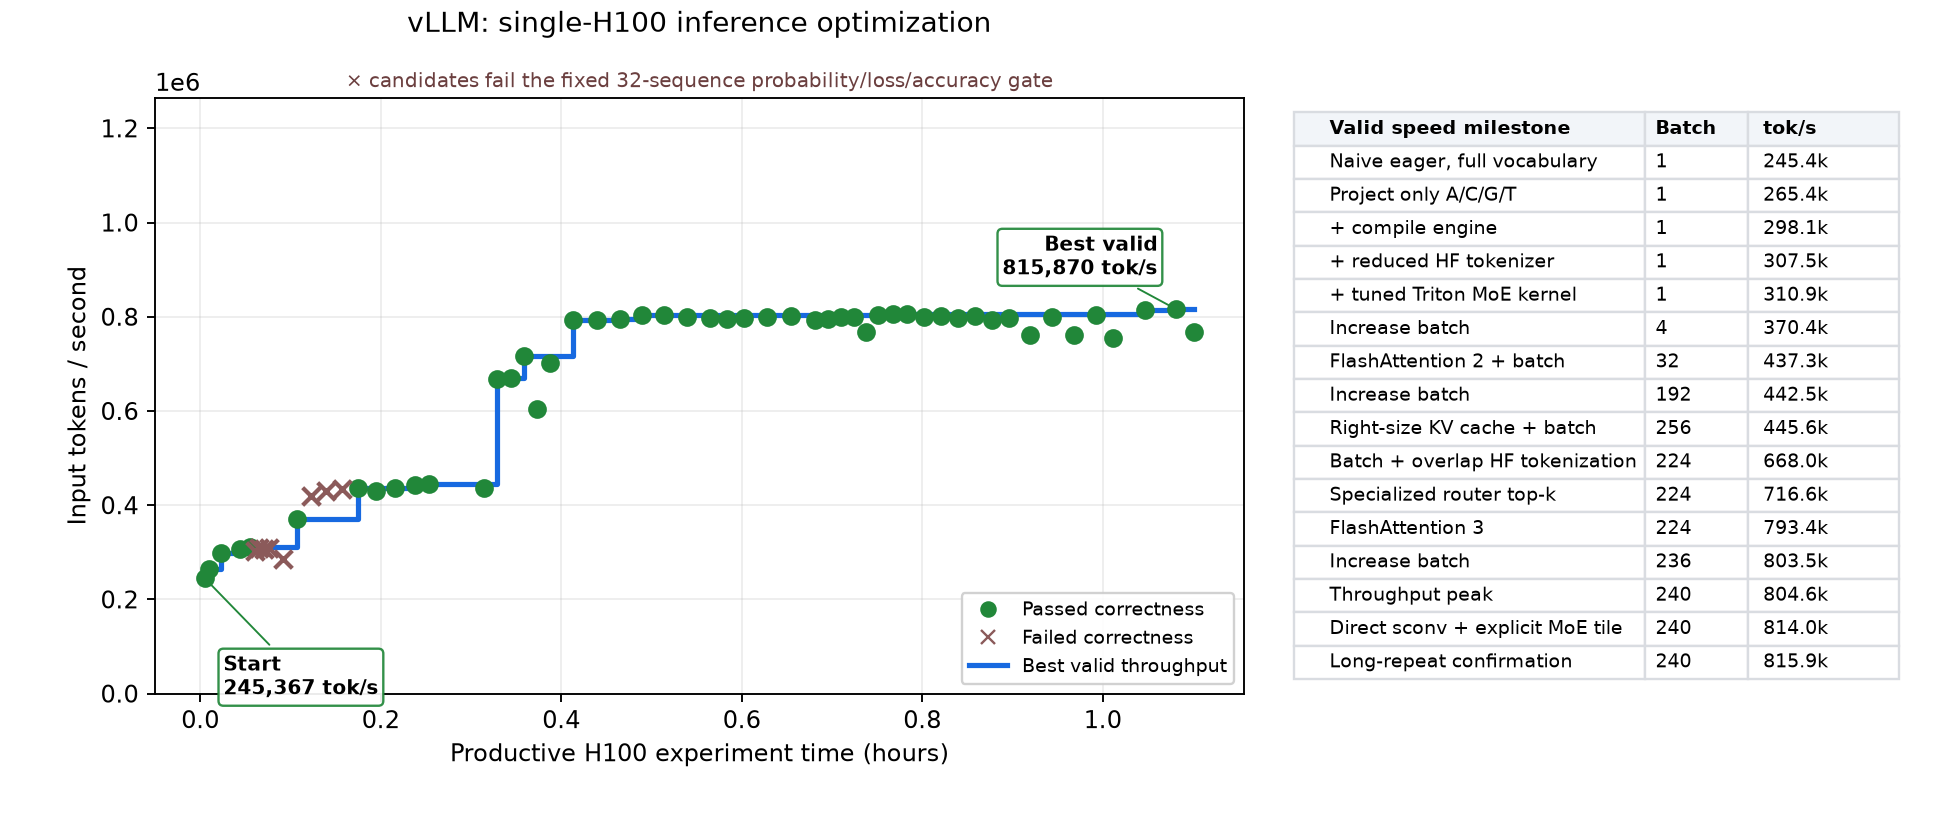
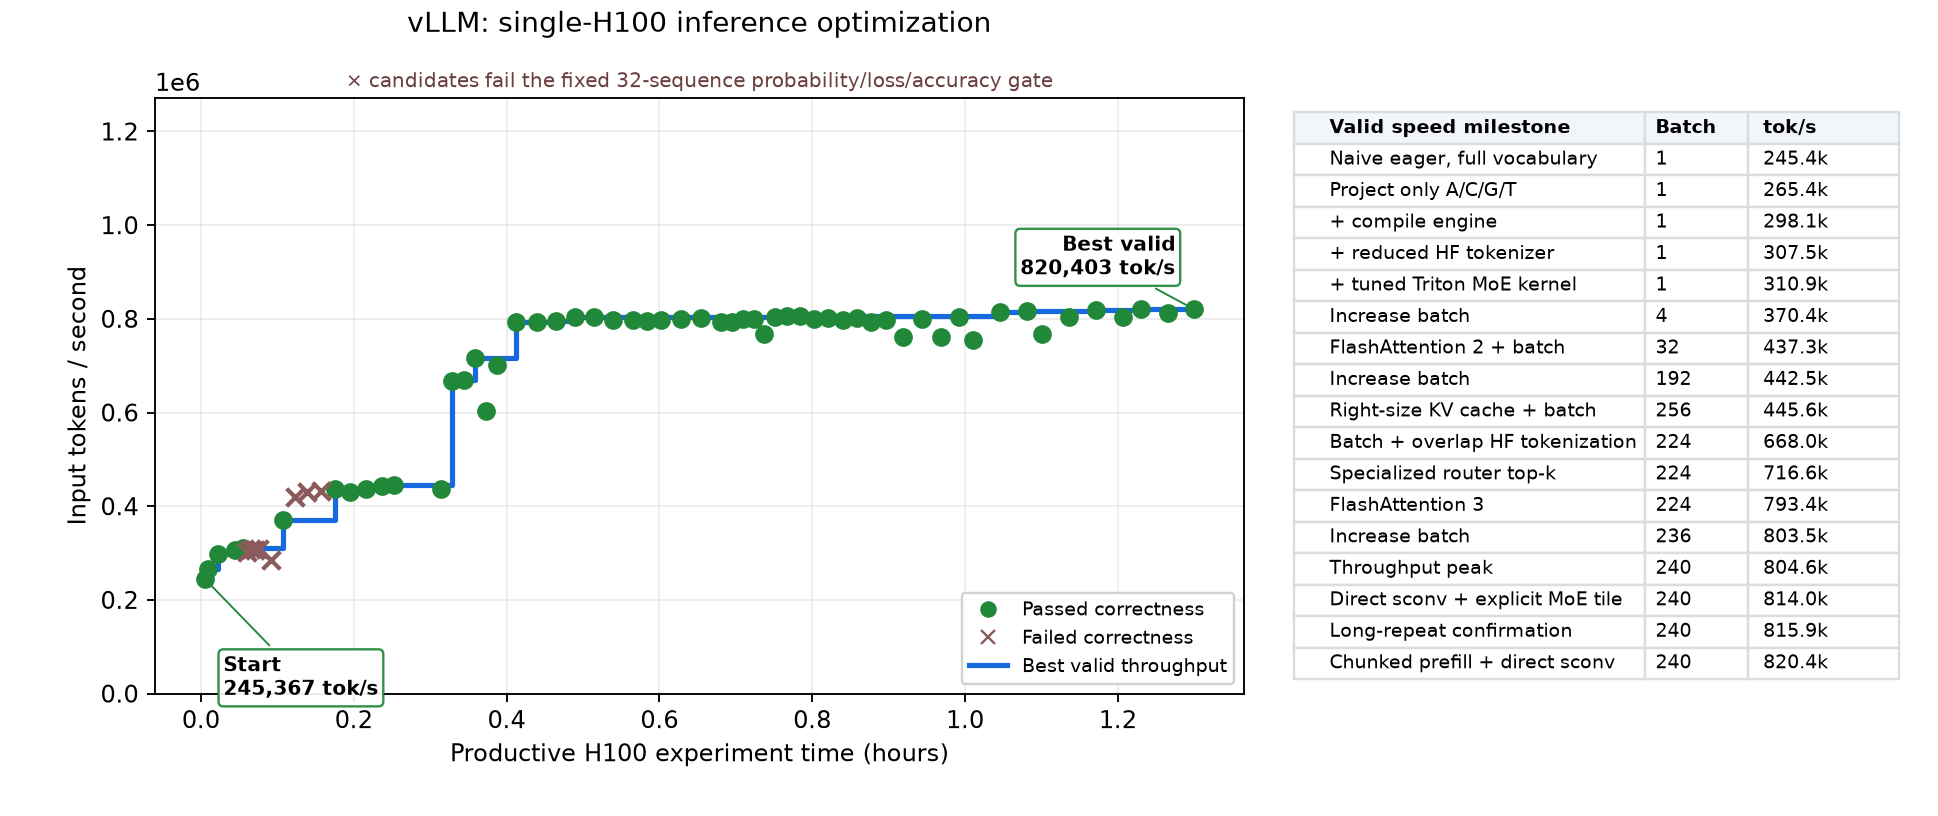
Update backend optimization progress

diff --git a/experiments/exp586_plantcad2_moe/src/exp586_moe/inference/plot_progress.py b/experiments/exp586_plantcad2_moe/src/exp586_moe/inference/plot_progress.py
@@ -70,6 +70,7 @@ _DISPLAY_NAMES = {
     "vllm-latest-topk-fa3-b240": "Throughput peak",
     "vLLM-tuned-direct-b240-repeat1": "Direct sconv + explicit MoE tile",
     "vLLM-tuned-direct-b240-repeat2": "Long-repeat confirmation",
+    "vLLM-chunked-direct-long-b240": "Chunked prefill + direct sconv",
 }
 _BACKEND_NAMES = {"jax": "JAX", "torch": "PyTorch", "vllm": "vLLM"}
 
